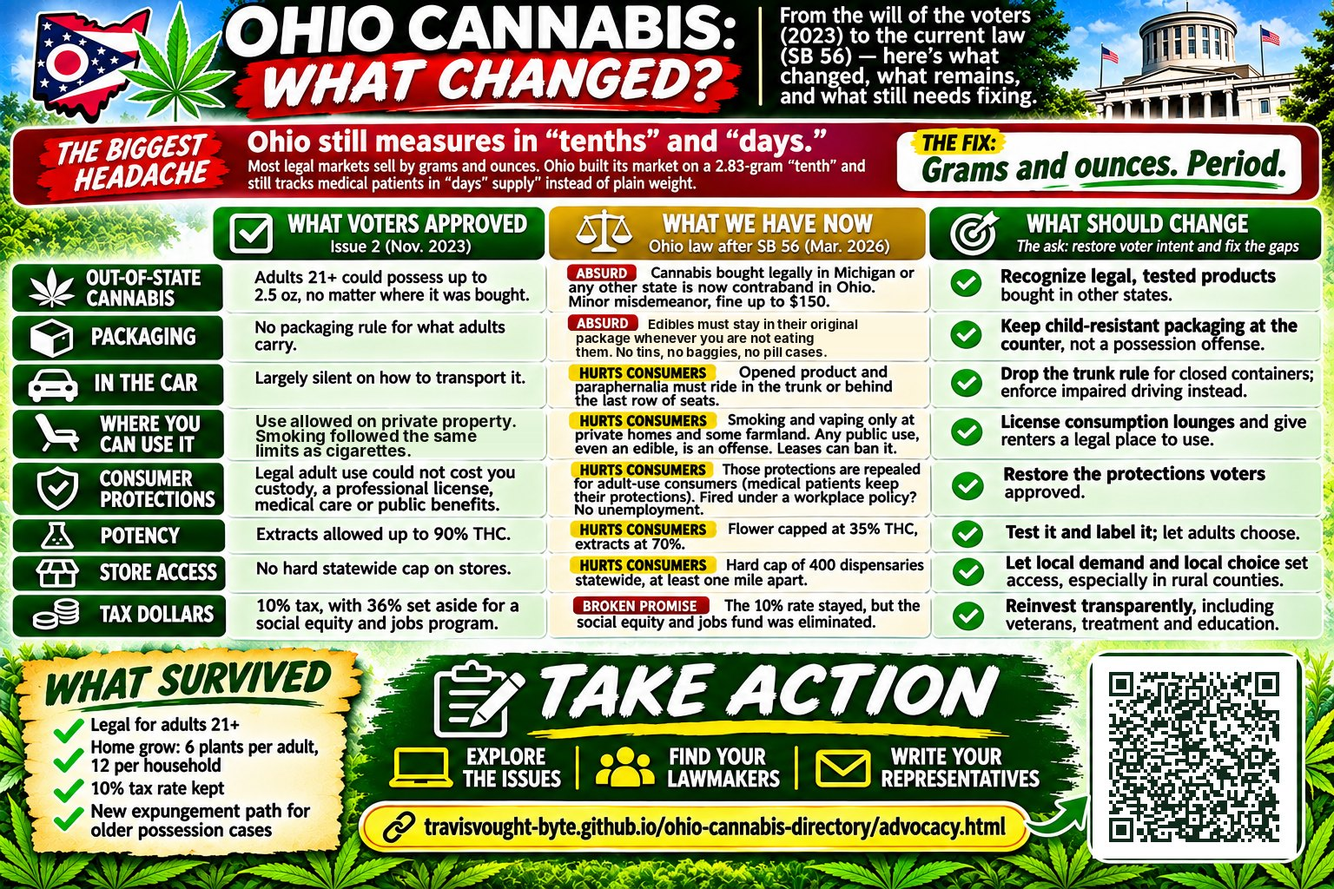
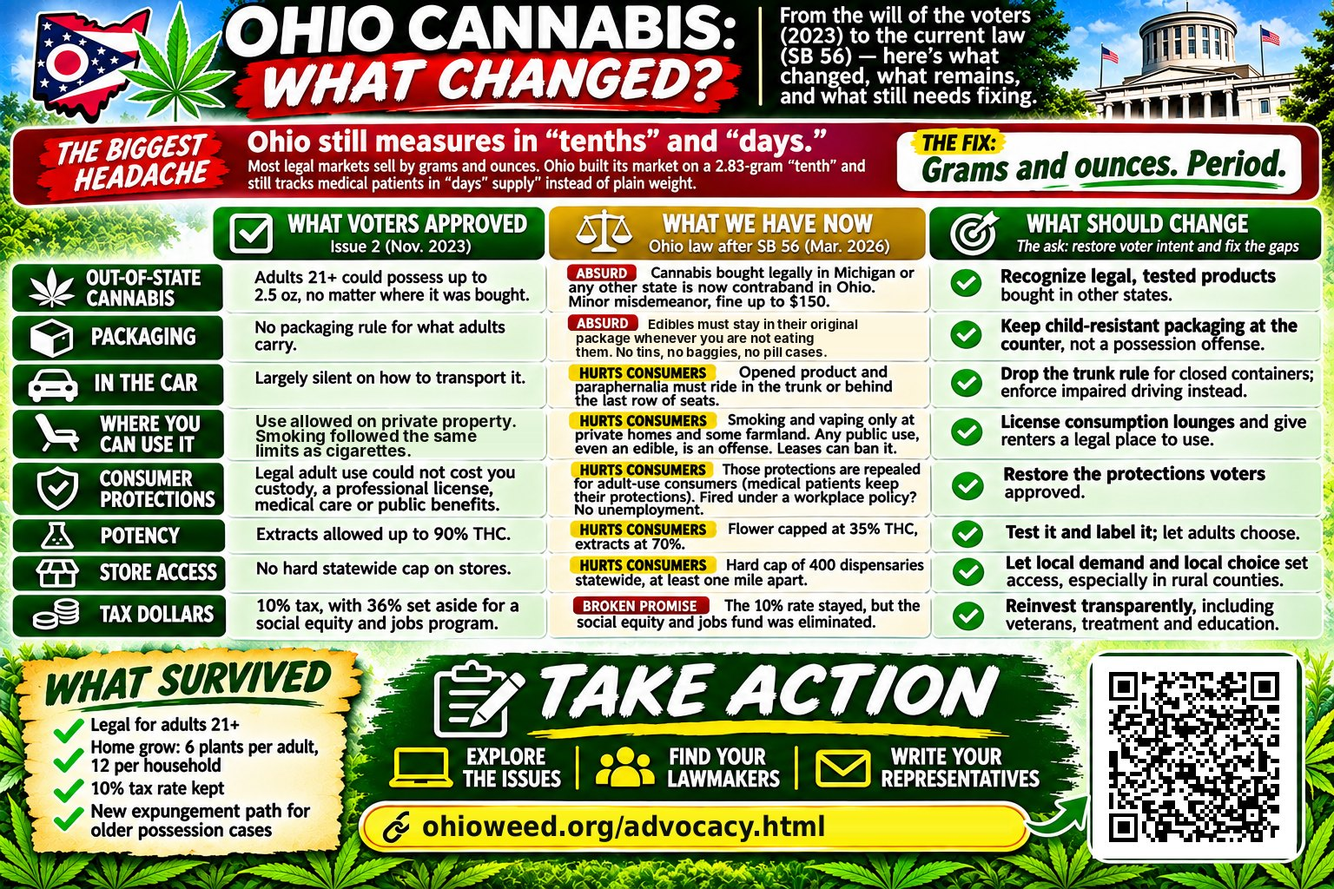
Put the "What changed?" poster on OhioWeed
The home page now shows the poster under the "Voters passed it" banner
with a download link. The advocacy page shares the poster as its link
preview instead of the generic site card. The poster's printed link and
QR code now go straight to ohioweed.org/advocacy.html#what-changed.

Claude-Session: https://claude.ai/code/session_015NAJuDFopm32ttj5K9yywz

Changed region(s): [[0.8125, 0.75, 0.9688, 0.9688], [0.2812, 0.9062, 0.75, 0.9688]]

diff --git a/index.html b/index.html
@@ -1,4 +1,4 @@
-<!doctype html><html lang="en"><head><meta charset="utf-8"><meta name="viewport" content="width=device-width,initial-scale=1"><meta name="theme-color" content="#173e34"><title>Ohio Cannabis Guide | OhioWeed</title><meta name="description" content="A practical Ohio cannabis guide: source-linked business directory, licensed dispensary locations, events and plain-language links to Ohio rules."><link rel="canonical" href="https://ohioweed.org/"><meta property="og:type" content="website"><meta property="og:site_name" content="OhioWeed"><meta property="og:url" content="https://ohioweed.org/"><meta property="og:title" content="Ohio Cannabis Guide | OhioWeed"><meta property="og:description" content="A practical Ohio cannabis guide: source-linked business directory, licensed dispensary locations, events and plain-language links to Ohio rules."><meta property="og:image" content="https://ohioweed.org/assets/og-card.png"><meta property="og:image:width" content="1200"><meta property="og:image:height" content="630"><meta property="og:image:alt" content="OhioWeed: Ohio cannabis, made clearer"><meta name="twitter:card" content="summary_large_image"><meta name="twitter:title" content="Ohio Cannabis Guide | OhioWeed"><meta name="twitter:description" content="A practical Ohio cannabis guide: source-linked business directory, licensed dispensary locations, events and plain-language links to Ohio rules."><meta name="twitter:image" content="https://ohioweed.org/assets/og-card.png"><link rel="icon" href="favicon.svg"><link rel="apple-touch-icon" href="favicon.svg"><link rel="stylesheet" href="assets/site.css"><script type="application/ld+json">{"@context":"https://schema.org","@type":"WebSite","name":"OhioWeed","url":"https://ohioweed.org/","description":"A practical Ohio cannabis guide: source-linked business directory, licensed dispensary locations, events and plain-language links to Ohio rules.","publisher":{"@type":"Organization","name":"OhioWeed","url":"https://ohioweed.org/","logo":{"@type":"ImageObject","url":"https://ohioweed.org/favicon.svg"}}}</script><!--gc--><script>window.goatcounter={path:function(){return "/ohioweed.org"+location.pathname},referrer:function(){try{var u=new URL(document.referrer);return u.origin+u.pathname}catch(e){return ""}}};</script><script data-goatcounter="https://travisvought.goatcounter.com/count" async src="https://gc.zgo.at/count.js"></script><!--/gc--></head><body><header class="site-header"><div class="nav-wrap"><a class="brand" href="index.html"><img class="brand-mark" src="favicon.svg" alt="" width="36" height="36"><span>OhioWeed<small>The Ohio cannabis guide</small></span></a><button class="menu-button" aria-expanded="false" aria-controls="primary-nav">Menu</button><nav id="primary-nav" class="nav-links" aria-label="Main navigation"><a href="dispensaries.html">Dispensaries</a><a href="events.html">Events</a><a href="find.html?for=grow">Grow</a><a href="find.html?for=law">Law &amp; rights</a><a href="find.html?for=business">Business</a><a href="medical.html">Medical card</a><a href="https://the-reefer.com/">All states</a></nav><form class="nav-search" action="find.html" method="get" role="search"><label class="sr-only" for="nav-q">Search the guide</label><input id="nav-q" name="q" type="search" placeholder="Search the guide" autocomplete="off"><button type="submit" aria-label="Search"><span aria-hidden="true">→</span></button></form></div></header><main><section class="hero"><div class="wrap hero-inner"><div><div class="eyebrow">Independent guide · Ohio focused</div><h1>Ohio cannabis,<br><em>made clearer.</em></h1><p>Find the people, places and public information behind Ohio cannabis. Browse a source-linked directory, explore statewide resources and follow the original rules and event pages.</p><div class="hero-actions"><a class="button" href="find.html">Find what you need <span aria-hidden="true">↗</span></a><a class="button secondary" href="directory.html">Explore the directory</a><a class="button secondary" href="rules.html">Know the Ohio rules</a><a class="button secondary" href="advocacy.html#what-changed">What lawmakers changed</a><a class="button secondary" href="medical.html">Get a medical card</a></div><div class="stat-row"><div class="stat"><strong>516</strong><span>directory organizations</span></div><div class="stat"><strong>230</strong><span>Ohio location records</span></div><div class="stat"><strong>Source linked</strong><span>check the original page</span></div></div></div><div class="hero-stamp" aria-hidden="true"><div class="stamp-text"><svg viewBox="0 0 200 200" class="ohio-mark" aria-hidden="true"><g transform="translate(-43.33 11.13) scale(0.2867)"><path d="M491.7 72.9L499.1 70.4L498.2 75.6L491.7 72.9ZM477.9 65.5L480.7 52.6L485.7 57.6L484.3 62.7L477.9 68.7L477.9 65.5ZM226.0 57.3L283.1 55.6L360.0 52.7L399.6 51.1L400.1 54.9L409.8 58.9L415.7 56.5L432.8 68.3L444.3 71.2L449.4 74.2L457.6 83.7L466.4 87.9L474.7 84.6L475.6 77.4L478.8 75.5L485.3 83.4L494.0 83.1L493.6 88.5L506.9 102.3L514.3 107.1L524.4 110.1L543.3 101.9L553.4 101.3L561.2 96.3L584.7 87.6L601.8 93.1L610.5 90.9L619.7 92.2L633.1 83.4L646.4 71.0L650.1 69.6L657.5 61.2L677.7 46.5L682.3 46.4L713.2 30.8L727.0 28.3L738.1 23.4L768.0 13.5L775.8 10.0L775.8 234.9L767.5 238.8L761.1 238.7L756.9 245.9L762.0 252.2L766.1 264.3L764.3 274.6L765.7 288.3L763.4 297.7L758.8 301.0L756.5 309.8L751.9 316.7L751.9 325.1L747.7 329.4L747.7 347.0L744.5 349.9L745.4 357.4L739.4 355.8L741.3 364.5L736.7 367.8L736.7 376.0L731.1 382.9L736.2 390.1L731.6 393.9L729.8 405.9L722.4 407.2L708.6 420.0L701.2 428.2L697.5 435.2L692.5 436.3L687.4 444.1L679.6 445.2L669.9 452.0L664.8 452.5L662.1 445.0L654.2 442.2L642.7 453.2L641.4 465.2L627.1 464.1L625.7 472.1L621.1 473.8L617.4 479.7L618.8 493.6L610.0 496.3L611.4 502.5L616.0 506.7L614.2 522.7L610.0 519.1L605.9 522.0L604.5 528.1L600.4 531.2L595.3 528.3L599.0 522.6L593.5 511.2L588.4 511.0L582.4 505.3L579.7 510.6L574.1 514.5L567.7 527.2L567.7 536.9L558.0 544.4L562.6 559.5L564.0 574.1L561.2 578.4L553.9 577.4L548.3 581.4L547.0 595.6L544.7 602.6L534.1 604.2L518.0 610.0L509.7 607.1L508.7 600.8L502.8 595.7L493.1 584.3L483.4 583.5L477.4 578.1L473.3 562.1L474.7 555.8L471.5 551.0L461.8 555.6L454.9 555.6L450.7 561.2L442.4 566.1L437.8 573.8L424.0 573.6L418.0 577.1L415.7 570.9L410.7 567.4L397.8 564.6L390.9 559.9L378.9 563.1L372.5 572.6L359.6 568.5L357.3 561.2L350.4 557.5L349.0 552.6L335.6 545.9L320.4 548.7L302.0 542.8L299.7 539.0L299.7 529.5L292.3 517.5L287.7 505.4L274.4 500.8L272.5 490.8L268.9 489.7L265.2 493.9L258.7 493.4L252.3 497.6L242.6 493.6L235.7 485.8L232.5 485.5L224.2 492.4L224.2 458.1L225.1 418.0L225.1 354.4L226.5 291.3L226.5 92.2L226.0 57.3Z" fill="#ffffff14" stroke="#d7f080" stroke-width="7" stroke-linejoin="round" fill-rule="evenodd"/></g><g transform="translate(100 120) scale(0.33)" fill="#d7f080"><path d="M0 0L13.4 -21.2L13.9 -40.6L19.2 -59.9L9.9 -79.3L7.3 -98.6L0.0 -118.0L0 -118.0L-0.0 -118.0L-7.3 -98.6L-9.9 -79.3L-19.2 -59.9L-13.9 -40.6L-13.4 -21.2Z" transform="rotate(0)"/><path d="M0 0L11.9 -18.4L12.3 -35.1L17.0 -51.8L8.8 -68.5L6.5 -85.3L0.0 -102.0L0 -102.0L-0.0 -102.0L-6.5 -85.3L-8.8 -68.5L-17.0 -51.8L-12.3 -35.1L-11.9 -18.4Z" transform="rotate(30)"/><path d="M0 0L11.9 -18.4L12.3 -35.1L17.0 -51.8L8.8 -68.5L6.5 -85.3L0.0 -102.0L0 -102.0L-0.0 -102.0L-6.5 -85.3L-8.8 -68.5L-17.0 -51.8L-12.3 -35.1L-11.9 -18.4Z" transform="rotate(-30)"/><path d="M0 0L9.9 -14.0L10.3 -26.8L14.2 -39.6L7.4 -52.4L5.4 -65.2L0.0 -78.0L0 -78.0L-0.0 -78.0L-5.4 -65.2L-7.4 -52.4L-14.2 -39.6L-10.3 -26.8L-9.9 -14.0Z" transform="rotate(58)"/><path d="M0 0L9.9 -14.0L10.3 -26.8L14.2 -39.6L7.4 -52.4L5.4 -65.2L0.0 -78.0L0 -78.0L-0.0 -78.0L-5.4 -65.2L-7.4 -52.4L-14.2 -39.6L-10.3 -26.8L-9.9 -14.0Z" transform="rotate(-58)"/><path d="M0 0L7.9 -9.4L8.2 -17.9L11.4 -26.4L5.9 -34.9L4.3 -43.5L0.0 -52.0L0 -52.0L-0.0 -52.0L-4.3 -43.5L-5.9 -34.9L-11.4 -26.4L-8.2 -17.9L-7.9 -9.4Z" transform="rotate(86)"/><path d="M0 0L7.9 -9.4L8.2 -17.9L11.4 -26.4L5.9 -34.9L4.3 -43.5L0.0 -52.0L0 -52.0L-0.0 -52.0L-4.3 -43.5L-5.9 -34.9L-11.4 -26.4L-8.2 -17.9L-7.9 -9.4Z" transform="rotate(-86)"/><path d="M0 0 L0 38" stroke="#d7f080" stroke-width="7" stroke-linecap="round" fill="none"/></g></svg><div class="stamp-caption">One state · one guide</div></div></div></div></section><div class="ticker"><div class="wrap"><span></span>Ohio focused <span></span> Source linked <span></span> Editorially sorted <span></span> Check the original before you go</div></div><section class="section"><div class="wrap"><div class="rule-strip"><div><div class="eyebrow">Issue 2 vs. SB 56</div><h2>Voters passed it. Lawmakers rewrote it.</h2><p>Ohio voters approved adult-use cannabis in 2023. SB 56 replaced that law in March 2026 with limits voters never chose: out-of-state cannabis made contraband, gifts only on private property, home processing by “manual or mechanical means” only, a possession cap that counts your own harvest, and most consumer protections repealed. See every change, with the statute cited.</p></div><a class="button dark" href="advocacy.html#what-changed">See what changed ↗</a></div></div></section><section class="section"><div class="wrap"><div class="section-head"><div><div class="eyebrow">Start where you are</div><h2>What brings you here?</h2></div><p>Four ways in. Pick the one that sounds like you and you will see only the pages that apply, instead of all twenty-four at once.</p></div><div class="path-grid"><a class="path-card" href="find.html?for=buy"><span class="path-num">01</span><h3>I want to buy</h3><p>The dispensary map, what to expect on a first visit, and how to read what is on a label.</p><span class="path-foot"><span>Map, guides and strains</span><span>↗</span></span></a><a class="path-card" href="find.html?for=grow"><span class="path-num">02</span><h3>I grow at home</h3><p>Hash and processing classes, seed and supply sources, and the Ohio veteran growers group.</p><span class="path-foot"><span>Classes and growers</span><span>↗</span></span></a><a class="path-card" href="find.html?for=law"><span class="path-num">03</span><h3>I want to change the law</h3><p>Find the lawmaker for your address, write to them in a few minutes, or clear an old record.</p><span class="path-foot"><span>Letter builder and lookups</span><span>↗</span></span></a><a class="path-card" href="find.html?for=business"><span class="path-num">04</span><h3>I'm in the business</h3><p>516 organizations, documented business relationships, Ohio events and the MJBizCon planner.</p><span class="path-foot"><span>516 source-linked entries</span><span>↗</span></span></a></div></div></section><section class="section">
+<!doctype html><html lang="en"><head><meta charset="utf-8"><meta name="viewport" content="width=device-width,initial-scale=1"><meta name="theme-color" content="#173e34"><title>Ohio Cannabis Guide | OhioWeed</title><meta name="description" content="A practical Ohio cannabis guide: source-linked business directory, licensed dispensary locations, events and plain-language links to Ohio rules."><link rel="canonical" href="https://ohioweed.org/"><meta property="og:type" content="website"><meta property="og:site_name" content="OhioWeed"><meta property="og:url" content="https://ohioweed.org/"><meta property="og:title" content="Ohio Cannabis Guide | OhioWeed"><meta property="og:description" content="A practical Ohio cannabis guide: source-linked business directory, licensed dispensary locations, events and plain-language links to Ohio rules."><meta property="og:image" content="https://ohioweed.org/assets/og-card.png"><meta property="og:image:width" content="1200"><meta property="og:image:height" content="630"><meta property="og:image:alt" content="OhioWeed: Ohio cannabis, made clearer"><meta name="twitter:card" content="summary_large_image"><meta name="twitter:title" content="Ohio Cannabis Guide | OhioWeed"><meta name="twitter:description" content="A practical Ohio cannabis guide: source-linked business directory, licensed dispensary locations, events and plain-language links to Ohio rules."><meta name="twitter:image" content="https://ohioweed.org/assets/og-card.png"><link rel="icon" href="favicon.svg"><link rel="apple-touch-icon" href="favicon.svg"><link rel="stylesheet" href="assets/site.css"><script type="application/ld+json">{"@context":"https://schema.org","@type":"WebSite","name":"OhioWeed","url":"https://ohioweed.org/","description":"A practical Ohio cannabis guide: source-linked business directory, licensed dispensary locations, events and plain-language links to Ohio rules.","publisher":{"@type":"Organization","name":"OhioWeed","url":"https://ohioweed.org/","logo":{"@type":"ImageObject","url":"https://ohioweed.org/favicon.svg"}}}</script><!--gc--><script>window.goatcounter={path:function(){return "/ohioweed.org"+location.pathname},referrer:function(){try{var u=new URL(document.referrer);return u.origin+u.pathname}catch(e){return ""}}};</script><script data-goatcounter="https://travisvought.goatcounter.com/count" async src="https://gc.zgo.at/count.js"></script><!--/gc--></head><body><header class="site-header"><div class="nav-wrap"><a class="brand" href="index.html"><img class="brand-mark" src="favicon.svg" alt="" width="36" height="36"><span>OhioWeed<small>The Ohio cannabis guide</small></span></a><button class="menu-button" aria-expanded="false" aria-controls="primary-nav">Menu</button><nav id="primary-nav" class="nav-links" aria-label="Main navigation"><a href="dispensaries.html">Dispensaries</a><a href="events.html">Events</a><a href="find.html?for=grow">Grow</a><a href="find.html?for=law">Law &amp; rights</a><a href="find.html?for=business">Business</a><a href="medical.html">Medical card</a><a href="https://the-reefer.com/">All states</a></nav><form class="nav-search" action="find.html" method="get" role="search"><label class="sr-only" for="nav-q">Search the guide</label><input id="nav-q" name="q" type="search" placeholder="Search the guide" autocomplete="off"><button type="submit" aria-label="Search"><span aria-hidden="true">→</span></button></form></div></header><main><section class="hero"><div class="wrap hero-inner"><div><div class="eyebrow">Independent guide · Ohio focused</div><h1>Ohio cannabis,<br><em>made clearer.</em></h1><p>Find the people, places and public information behind Ohio cannabis. Browse a source-linked directory, explore statewide resources and follow the original rules and event pages.</p><div class="hero-actions"><a class="button" href="find.html">Find what you need <span aria-hidden="true">↗</span></a><a class="button secondary" href="directory.html">Explore the directory</a><a class="button secondary" href="rules.html">Know the Ohio rules</a><a class="button secondary" href="advocacy.html#what-changed">What lawmakers changed</a><a class="button secondary" href="medical.html">Get a medical card</a></div><div class="stat-row"><div class="stat"><strong>516</strong><span>directory organizations</span></div><div class="stat"><strong>230</strong><span>Ohio location records</span></div><div class="stat"><strong>Source linked</strong><span>check the original page</span></div></div></div><div class="hero-stamp" aria-hidden="true"><div class="stamp-text"><svg viewBox="0 0 200 200" class="ohio-mark" aria-hidden="true"><g transform="translate(-43.33 11.13) scale(0.2867)"><path d="M491.7 72.9L499.1 70.4L498.2 75.6L491.7 72.9ZM477.9 65.5L480.7 52.6L485.7 57.6L484.3 62.7L477.9 68.7L477.9 65.5ZM226.0 57.3L283.1 55.6L360.0 52.7L399.6 51.1L400.1 54.9L409.8 58.9L415.7 56.5L432.8 68.3L444.3 71.2L449.4 74.2L457.6 83.7L466.4 87.9L474.7 84.6L475.6 77.4L478.8 75.5L485.3 83.4L494.0 83.1L493.6 88.5L506.9 102.3L514.3 107.1L524.4 110.1L543.3 101.9L553.4 101.3L561.2 96.3L584.7 87.6L601.8 93.1L610.5 90.9L619.7 92.2L633.1 83.4L646.4 71.0L650.1 69.6L657.5 61.2L677.7 46.5L682.3 46.4L713.2 30.8L727.0 28.3L738.1 23.4L768.0 13.5L775.8 10.0L775.8 234.9L767.5 238.8L761.1 238.7L756.9 245.9L762.0 252.2L766.1 264.3L764.3 274.6L765.7 288.3L763.4 297.7L758.8 301.0L756.5 309.8L751.9 316.7L751.9 325.1L747.7 329.4L747.7 347.0L744.5 349.9L745.4 357.4L739.4 355.8L741.3 364.5L736.7 367.8L736.7 376.0L731.1 382.9L736.2 390.1L731.6 393.9L729.8 405.9L722.4 407.2L708.6 420.0L701.2 428.2L697.5 435.2L692.5 436.3L687.4 444.1L679.6 445.2L669.9 452.0L664.8 452.5L662.1 445.0L654.2 442.2L642.7 453.2L641.4 465.2L627.1 464.1L625.7 472.1L621.1 473.8L617.4 479.7L618.8 493.6L610.0 496.3L611.4 502.5L616.0 506.7L614.2 522.7L610.0 519.1L605.9 522.0L604.5 528.1L600.4 531.2L595.3 528.3L599.0 522.6L593.5 511.2L588.4 511.0L582.4 505.3L579.7 510.6L574.1 514.5L567.7 527.2L567.7 536.9L558.0 544.4L562.6 559.5L564.0 574.1L561.2 578.4L553.9 577.4L548.3 581.4L547.0 595.6L544.7 602.6L534.1 604.2L518.0 610.0L509.7 607.1L508.7 600.8L502.8 595.7L493.1 584.3L483.4 583.5L477.4 578.1L473.3 562.1L474.7 555.8L471.5 551.0L461.8 555.6L454.9 555.6L450.7 561.2L442.4 566.1L437.8 573.8L424.0 573.6L418.0 577.1L415.7 570.9L410.7 567.4L397.8 564.6L390.9 559.9L378.9 563.1L372.5 572.6L359.6 568.5L357.3 561.2L350.4 557.5L349.0 552.6L335.6 545.9L320.4 548.7L302.0 542.8L299.7 539.0L299.7 529.5L292.3 517.5L287.7 505.4L274.4 500.8L272.5 490.8L268.9 489.7L265.2 493.9L258.7 493.4L252.3 497.6L242.6 493.6L235.7 485.8L232.5 485.5L224.2 492.4L224.2 458.1L225.1 418.0L225.1 354.4L226.5 291.3L226.5 92.2L226.0 57.3Z" fill="#ffffff14" stroke="#d7f080" stroke-width="7" stroke-linejoin="round" fill-rule="evenodd"/></g><g transform="translate(100 120) scale(0.33)" fill="#d7f080"><path d="M0 0L13.4 -21.2L13.9 -40.6L19.2 -59.9L9.9 -79.3L7.3 -98.6L0.0 -118.0L0 -118.0L-0.0 -118.0L-7.3 -98.6L-9.9 -79.3L-19.2 -59.9L-13.9 -40.6L-13.4 -21.2Z" transform="rotate(0)"/><path d="M0 0L11.9 -18.4L12.3 -35.1L17.0 -51.8L8.8 -68.5L6.5 -85.3L0.0 -102.0L0 -102.0L-0.0 -102.0L-6.5 -85.3L-8.8 -68.5L-17.0 -51.8L-12.3 -35.1L-11.9 -18.4Z" transform="rotate(30)"/><path d="M0 0L11.9 -18.4L12.3 -35.1L17.0 -51.8L8.8 -68.5L6.5 -85.3L0.0 -102.0L0 -102.0L-0.0 -102.0L-6.5 -85.3L-8.8 -68.5L-17.0 -51.8L-12.3 -35.1L-11.9 -18.4Z" transform="rotate(-30)"/><path d="M0 0L9.9 -14.0L10.3 -26.8L14.2 -39.6L7.4 -52.4L5.4 -65.2L0.0 -78.0L0 -78.0L-0.0 -78.0L-5.4 -65.2L-7.4 -52.4L-14.2 -39.6L-10.3 -26.8L-9.9 -14.0Z" transform="rotate(58)"/><path d="M0 0L9.9 -14.0L10.3 -26.8L14.2 -39.6L7.4 -52.4L5.4 -65.2L0.0 -78.0L0 -78.0L-0.0 -78.0L-5.4 -65.2L-7.4 -52.4L-14.2 -39.6L-10.3 -26.8L-9.9 -14.0Z" transform="rotate(-58)"/><path d="M0 0L7.9 -9.4L8.2 -17.9L11.4 -26.4L5.9 -34.9L4.3 -43.5L0.0 -52.0L0 -52.0L-0.0 -52.0L-4.3 -43.5L-5.9 -34.9L-11.4 -26.4L-8.2 -17.9L-7.9 -9.4Z" transform="rotate(86)"/><path d="M0 0L7.9 -9.4L8.2 -17.9L11.4 -26.4L5.9 -34.9L4.3 -43.5L0.0 -52.0L0 -52.0L-0.0 -52.0L-4.3 -43.5L-5.9 -34.9L-11.4 -26.4L-8.2 -17.9L-7.9 -9.4Z" transform="rotate(-86)"/><path d="M0 0 L0 38" stroke="#d7f080" stroke-width="7" stroke-linecap="round" fill="none"/></g></svg><div class="stamp-caption">One state · one guide</div></div></div></div></section><div class="ticker"><div class="wrap"><span></span>Ohio focused <span></span> Source linked <span></span> Editorially sorted <span></span> Check the original before you go</div></div><section class="section"><div class="wrap"><div class="rule-strip"><div><div class="eyebrow">Issue 2 vs. SB 56</div><h2>Voters passed it. Lawmakers rewrote it.</h2><p>Ohio voters approved adult-use cannabis in 2023. SB 56 replaced that law in March 2026 with limits voters never chose: out-of-state cannabis made contraband, gifts only on private property, home processing by “manual or mechanical means” only, a possession cap that counts your own harvest, and most consumer protections repealed. See every change, with the statute cited.</p></div><a class="button dark" href="advocacy.html#what-changed">See what changed ↗</a></div><a href="advocacy.html#what-changed" style="display:block;margin-top:20px"><img src="assets/ohio-what-changed.jpg" width="1536" height="1024" loading="lazy" style="display:block;width:100%;height:auto;border-radius:16px;border:1px solid #d5dfd3" alt="Poster: Ohio cannabis, what changed. Compares what voters approved in Issue 2 with Ohio law after SB 56 and lists what should change."></a><p style="font-size:.9rem;margin-top:8px"><a href="assets/ohio-what-changed.png" download>Download the poster</a> to print or share. The QR code opens the full list with every statute cited.</p></div></section><section class="section"><div class="wrap"><div class="section-head"><div><div class="eyebrow">Start where you are</div><h2>What brings you here?</h2></div><p>Four ways in. Pick the one that sounds like you and you will see only the pages that apply, instead of all twenty-four at once.</p></div><div class="path-grid"><a class="path-card" href="find.html?for=buy"><span class="path-num">01</span><h3>I want to buy</h3><p>The dispensary map, what to expect on a first visit, and how to read what is on a label.</p><span class="path-foot"><span>Map, guides and strains</span><span>↗</span></span></a><a class="path-card" href="find.html?for=grow"><span class="path-num">02</span><h3>I grow at home</h3><p>Hash and processing classes, seed and supply sources, and the Ohio veteran growers group.</p><span class="path-foot"><span>Classes and growers</span><span>↗</span></span></a><a class="path-card" href="find.html?for=law"><span class="path-num">03</span><h3>I want to change the law</h3><p>Find the lawmaker for your address, write to them in a few minutes, or clear an old record.</p><span class="path-foot"><span>Letter builder and lookups</span><span>↗</span></span></a><a class="path-card" href="find.html?for=business"><span class="path-num">04</span><h3>I'm in the business</h3><p>516 organizations, documented business relationships, Ohio events and the MJBizCon planner.</p><span class="path-foot"><span>516 source-linked entries</span><span>↗</span></span></a></div></div></section><section class="section">
 <div class="wrap">
 <div class="section-head">
 <div>

diff --git a/advocacy.html b/advocacy.html
@@ -1,5 +1,5 @@
 <!doctype html>
-<html lang="en"><head><link rel="icon" href="favicon.svg"><link rel="apple-touch-icon" href="favicon.svg"><meta property="og:image" content="https://ohioweed.org/assets/og-card.png"><meta property="og:image:width" content="1200"><meta property="og:image:height" content="630"><meta name="twitter:card" content="summary_large_image"><meta name="twitter:image" content="https://ohioweed.org/assets/og-card.png"><meta name="twitter:title" content="Have a say in Ohio cannabis policy | OhioWeed"><meta name="twitter:description" content="Choose an Ohio cannabis policy issue, find your officials, and prepare a letter or call. Practical advocacy for patients, consumers, businesses and communities."><meta charset="utf-8"><meta name="viewport" content="width=device-width,initial-scale=1">
+<html lang="en"><head><link rel="icon" href="favicon.svg"><link rel="apple-touch-icon" href="favicon.svg"><meta property="og:image" content="https://ohioweed.org/assets/ohio-what-changed.jpg"><meta property="og:image:width" content="1536"><meta property="og:image:height" content="1024"><meta name="twitter:card" content="summary_large_image"><meta name="twitter:image" content="https://ohioweed.org/assets/ohio-what-changed.jpg"><meta name="twitter:title" content="Have a say in Ohio cannabis policy | OhioWeed"><meta name="twitter:description" content="Choose an Ohio cannabis policy issue, find your officials, and prepare a letter or call. Practical advocacy for patients, consumers, businesses and communities."><meta charset="utf-8"><meta name="viewport" content="width=device-width,initial-scale=1">
 <title>Have a say in Ohio cannabis policy | OhioWeed</title><meta name="description" content="Choose an Ohio cannabis policy issue, find your officials, and prepare a letter or call. Practical advocacy for patients, consumers, businesses and communities.">
 <style>
 *{box-sizing:border-box}body{margin:0;background:#f5f5f3;color:#252525;font:17px/1.6 system-ui}main{max-width:1080px;margin:auto;padding:28px}a{color:#a90000;overflow-wrap:anywhere}h1{font-size:clamp(2rem,5vw,3.3rem);line-height:1.12}h2{line-height:1.25}h3{font-size:1.15rem;line-height:1.3}.lead{font-size:1.2rem}.review,.muted{font-size:.88rem;color:#555}.actions{display:flex;flex-wrap:wrap;gap:10px;margin:18px 0}.button,button{display:inline-flex;align-items:center;justify-content:center;border:1px solid #a90000;border-radius:6px;padding:10px 16px;background:#a90000;color:white;font:inherit;text-decoration:none;cursor:pointer}.secondary{background:white;color:#a90000}.grid{display:grid;grid-template-columns:repeat(2,minmax(0,1fr));gap:16px}article,.composer{background:white;border:1px solid #ccc;border-radius:10px;padding:22px;min-width:0}section{margin:40px 0;scroll-margin-top:20px}.fields{display:grid;grid-template-columns:1fr 1fr;gap:16px}label{display:block;font-weight:600;margin:12px 0 5px}input,select,textarea{width:100%;max-width:100%;font:inherit;padding:10px;border:1px solid #888;border-radius:5px}textarea{resize:vertical}fieldset{border:1px solid #ccc;margin:20px 0;padding:12px 16px}legend{font-weight:650}.check{display:flex;align-items:flex-start;gap:12px;font-weight:400;margin:12px 0}.check input{width:22px;min-height:22px;height:22px;flex:none;margin-top:3px}#letter{min-height:390px}#print-letter{display:none;white-space:pre-wrap;overflow-wrap:anywhere}#status{min-height:1.6em}a:focus-visible,button:focus-visible,input:focus-visible,textarea:focus-visible,summary:focus-visible{outline:3px solid #3367b1;outline-offset:3px}details{margin:20px 0}summary{cursor:pointer;font-weight:600}.table-wrap{overflow-x:auto}table{width:100%;border-collapse:collapse;background:white}th,td{text-align:left;vertical-align:top;border:1px solid #ccc;padding:12px}caption{text-align:left;font-weight:650;padding:10px 0}#save-status{font-size:.9rem}.changed table td,.changed table th{font-size:.95rem}.changed thead th{background:#173e34;color:white}.tag{display:inline-block;font-size:.72rem;font-weight:700;letter-spacing:.03em;text-transform:uppercase;border-radius:4px;padding:1px 7px;margin-right:4px;vertical-align:1px}.tag-absurd{background:#a90000;color:white}.tag-hurts{background:#f2c200;color:#222}.tag-broken{background:#5b2a86;color:white}.tag-hard{background:#24527a;color:white}.cite{display:block;font-size:.8rem;color:#555;margin-top:4px}.limits{padding-left:1.2em}.limits li{margin:12px 0}.headache{background:#fff4f4;border-left:5px solid #a90000;padding:12px 16px}.poster{margin:20px 0}.poster img{width:100%;height:auto;border:1px solid #ccc;border-radius:8px}.poster figcaption{font-size:.9rem;color:#555}

diff --git a/scripts/mirror_directory.py b/scripts/mirror_directory.py
@@ -107,6 +107,8 @@ HEAD_ICON = '<link rel="icon" href="favicon.svg"><link rel="apple-touch-icon" hr
 
 
 CARD = SITE + '/assets/og-card.png'
+# Pages that share their own picture instead of the site card: (image, width, height).
+CARDS = {'advocacy': (SITE + '/assets/ohio-what-changed.jpg', 1536, 1024)}
 
 # These pages ship a generic site-wide description from the directory build, so five of
 # them end up identical. Search engines discount duplicates, so each gets its own line.
@@ -142,11 +144,12 @@ def brand_page(text: str, name: str) -> str:
         head += f'<link rel="canonical" href="{url}">'
     if not re.search(r'<meta property="og:url"', text):
         head += f'<meta property="og:url" content="{url}">'
-    head += (f'<meta property="og:image" content="{CARD}">'
-             '<meta property="og:image:width" content="1200">'
-             '<meta property="og:image:height" content="630">'
+    card, card_w, card_h = CARDS.get(name, (CARD, 1200, 630))
+    head += (f'<meta property="og:image" content="{card}">'
+             f'<meta property="og:image:width" content="{card_w}">'
+             f'<meta property="og:image:height" content="{card_h}">'
              '<meta name="twitter:card" content="summary_large_image">'
-             f'<meta name="twitter:image" content="{CARD}">')
+             f'<meta name="twitter:image" content="{card}">')
     if title:
         head += f'<meta name="twitter:title" content="{html_escape(title.group(1))}">'
     if found:
